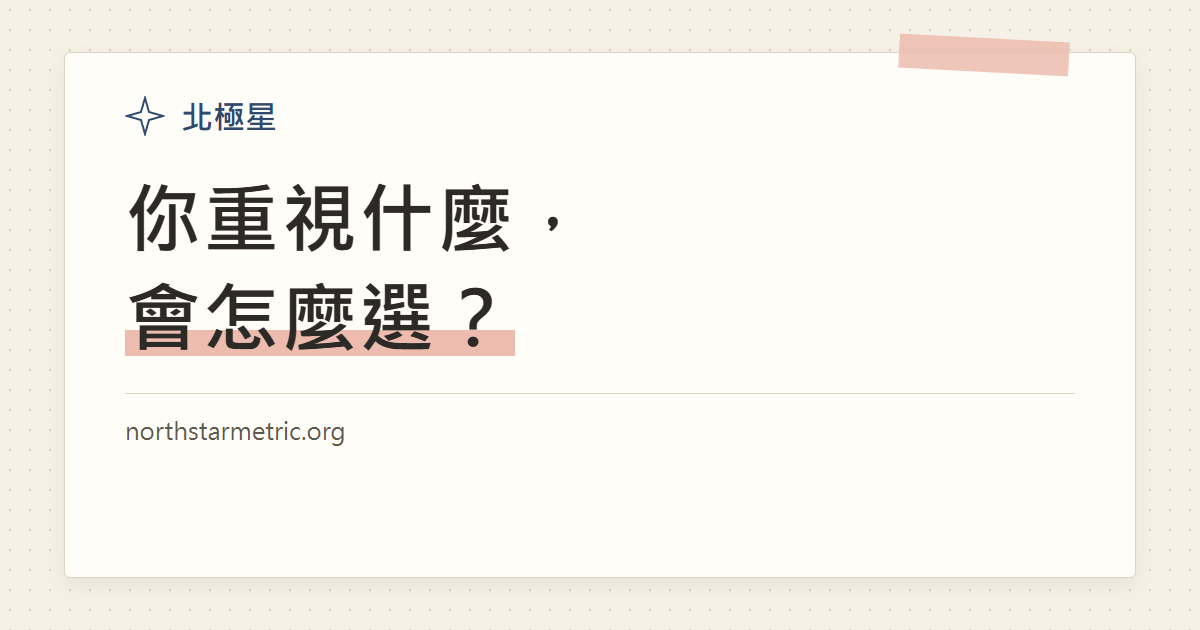
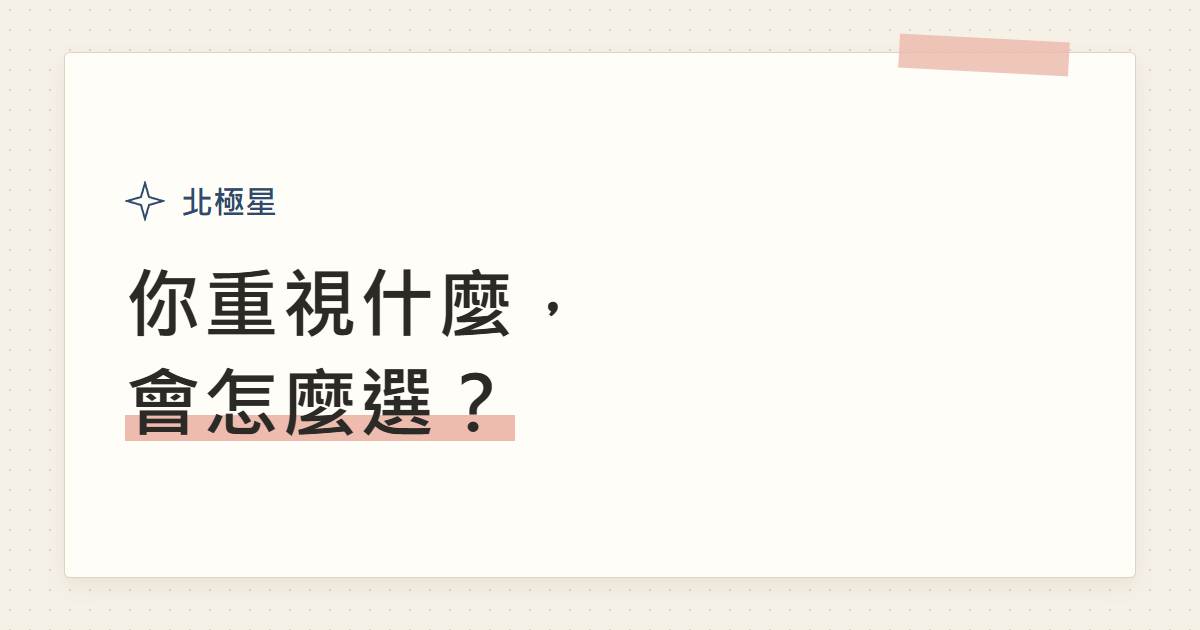
fix: 連結預覽只放網站名稱和首頁標題 (Refs #38)
- og:image:alt 改用首頁標題原文「你重視什麼，會怎麼選？」，不另寫文案。
- 預覽圖拿掉 northstarmetric.org 頁尾，只留網站名稱和首頁標題；內容改成在卡片裡垂直置中，避免下半部空白。public/link-preview.png 已在 Windows（Edge、微軟正黑體）用 scripts/generate-link-preview.mjs 重新產生並檢查過。

Refs #38

Changed region(s): [[0.0925, 0.2714, 0.4625, 0.7238], [0.0925, 0.1508, 0.2467, 0.2111]]

diff --git a/scripts/link-preview.html b/scripts/link-preview.html
@@ -6,17 +6,15 @@
   /* Fixed light-theme palette from src/techo.css. No remote resources. */
   * { box-sizing: border-box; }
   body { margin: 0; width: 1200px; height: 630px; padding: 52px 64px; background: #f6f1e7; background-image: radial-gradient(#ddd3c2 1px, transparent 1px); background-size: 20px 20px; color: #2b2a27; font-family: 'Microsoft JhengHei', sans-serif; }
-  article { position: relative; height: 526px; padding: 42px 60px; background: #fffdf8; border: 1px solid #ddd3c2; border-radius: 6px; box-shadow: 0 8px 20px #3c280a14; }
+  article { position: relative; display: flex; flex-direction: column; justify-content: center; height: 526px; padding: 42px 60px; background: #fffdf8; border: 1px solid #ddd3c2; border-radius: 6px; box-shadow: 0 8px 20px #3c280a14; }
   article::before { content: ''; position: absolute; top: -15px; right: 66px; width: 170px; height: 34px; background: #edbcaf; opacity: .85; transform: rotate(3deg); }
   header { display: flex; align-items: center; gap: 16px; color: #2f4a6d; font-size: 32px; font-weight: 700; }
   svg { width: 40px; height: 40px; }
-  h1 { margin: 30px 0 28px; font-size: 76px; line-height: 1.3; letter-spacing: 2px; font-weight: 700; }
+  h1 { margin: 30px 0 0; font-size: 76px; line-height: 1.3; letter-spacing: 2px; font-weight: 700; }
   mark { background: linear-gradient(transparent 65%, #edbcaf 65%, #edbcaf 91%, transparent 91%); color: inherit; }
-  footer { border-top: 1px solid #ddd3c2; padding-top: 20px; color: #5e584d; font-size: 24px; }
 </style>
 <article>
   <header><svg viewBox="0 0 40 40" aria-hidden="true"><path d="M20 2 24 16 38 20 24 24 20 38 16 24 2 20 16 16Z" fill="none" stroke="currentColor" stroke-width="2"/></svg>北極星</header>
   <h1>你重視什麼，<br><mark>會怎麼選？</mark></h1>
-  <footer>northstarmetric.org</footer>
 </article>
 </html>

diff --git a/tests/link-preview.spec.ts b/tests/link-preview.spec.ts
@@ -7,6 +7,8 @@ test('shared links expose the homepage preview without running JavaScript', asyn
   await expect(page.locator('meta[property="og:title"]')).toHaveAttribute('content', '尋找你的北極星');
   await expect(page.locator('meta[property="og:description"]')).toHaveAttribute('content', '整理你重視的事物，透過具體情境中的取捨，回顧這一次的選擇。北極星是一份自編價值反思工具。');
   await expect(page.locator('meta[property="og:image"]')).toHaveAttribute('content', 'https://northstarmetric.org/link-preview.png');
+  // The image shows the site name and the homepage title; its alt reuses that title as written on the homepage.
+  await expect(page.locator('meta[property="og:image:alt"]')).toHaveAttribute('content', '你重視什麼，會怎麼選？');
   await context.close();
 });
 

diff --git a/index.html b/index.html
@@ -32,7 +32,7 @@
     <meta property="og:image" content="https://northstarmetric.org/link-preview.png" />
     <meta property="og:image:width" content="1200" />
     <meta property="og:image:height" content="630" />
-    <meta property="og:image:alt" content="北極星 · 你重視什麼，會怎麼選？" />
+    <meta property="og:image:alt" content="你重視什麼，會怎麼選？" />
   </head>
   <body>
     <div id="root"></div>
